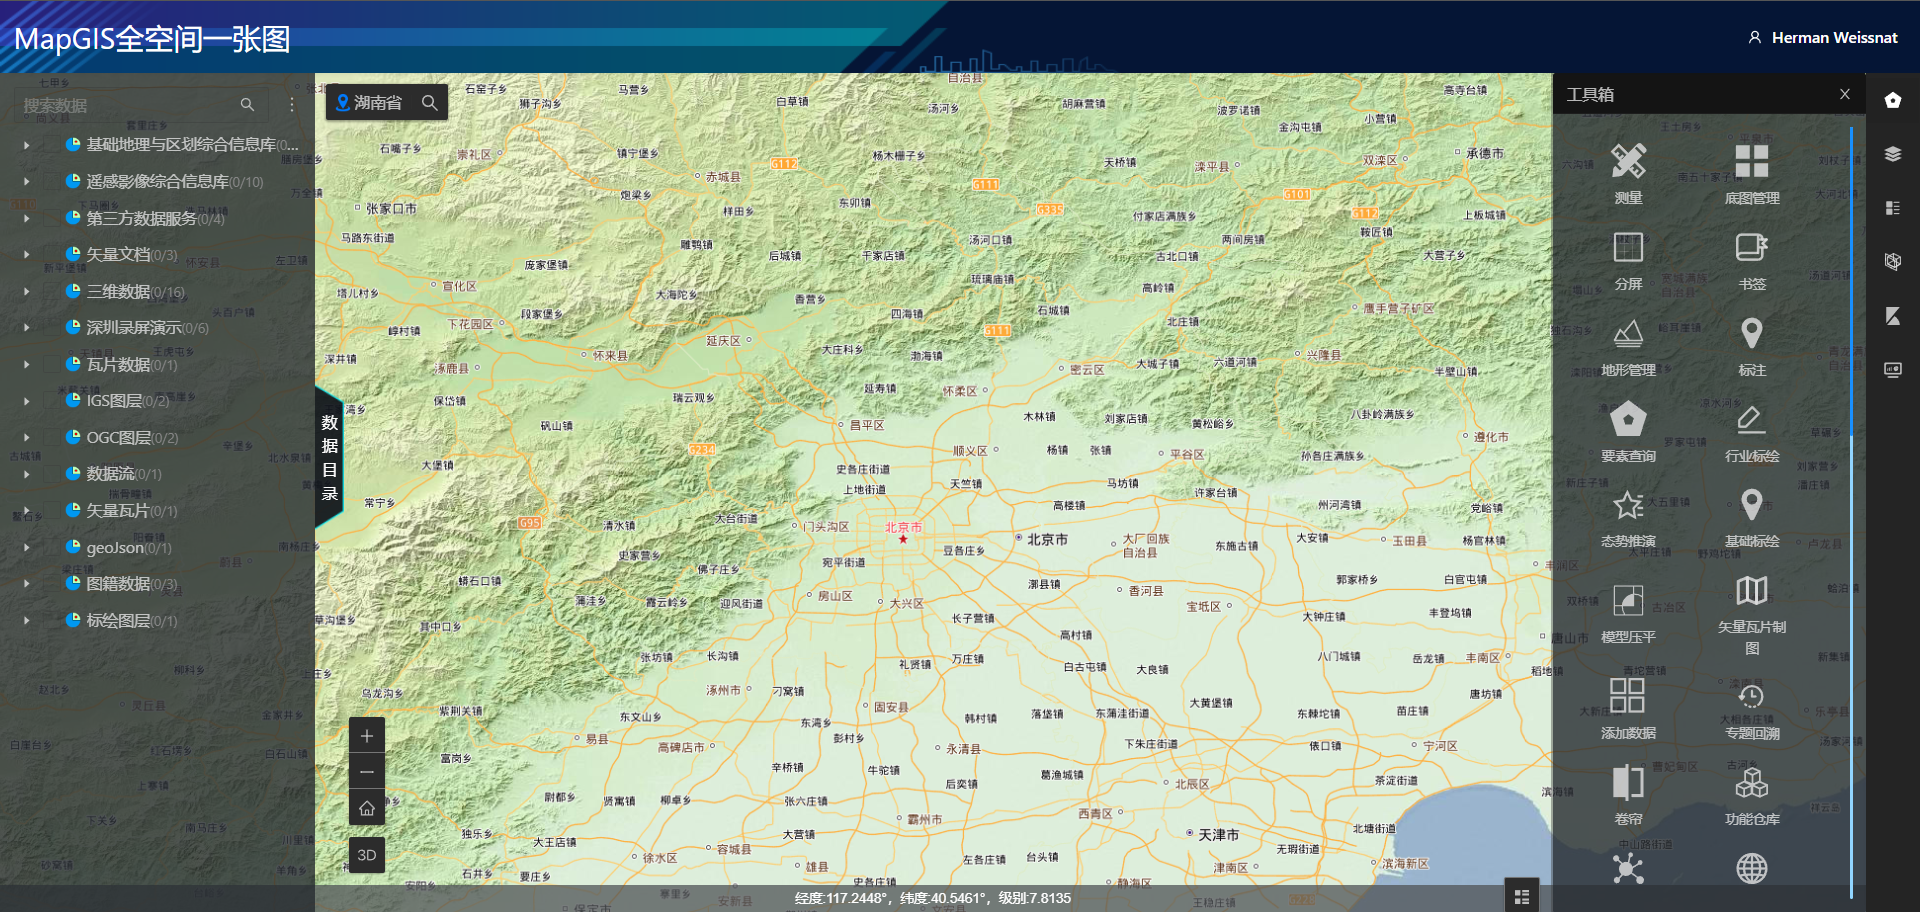
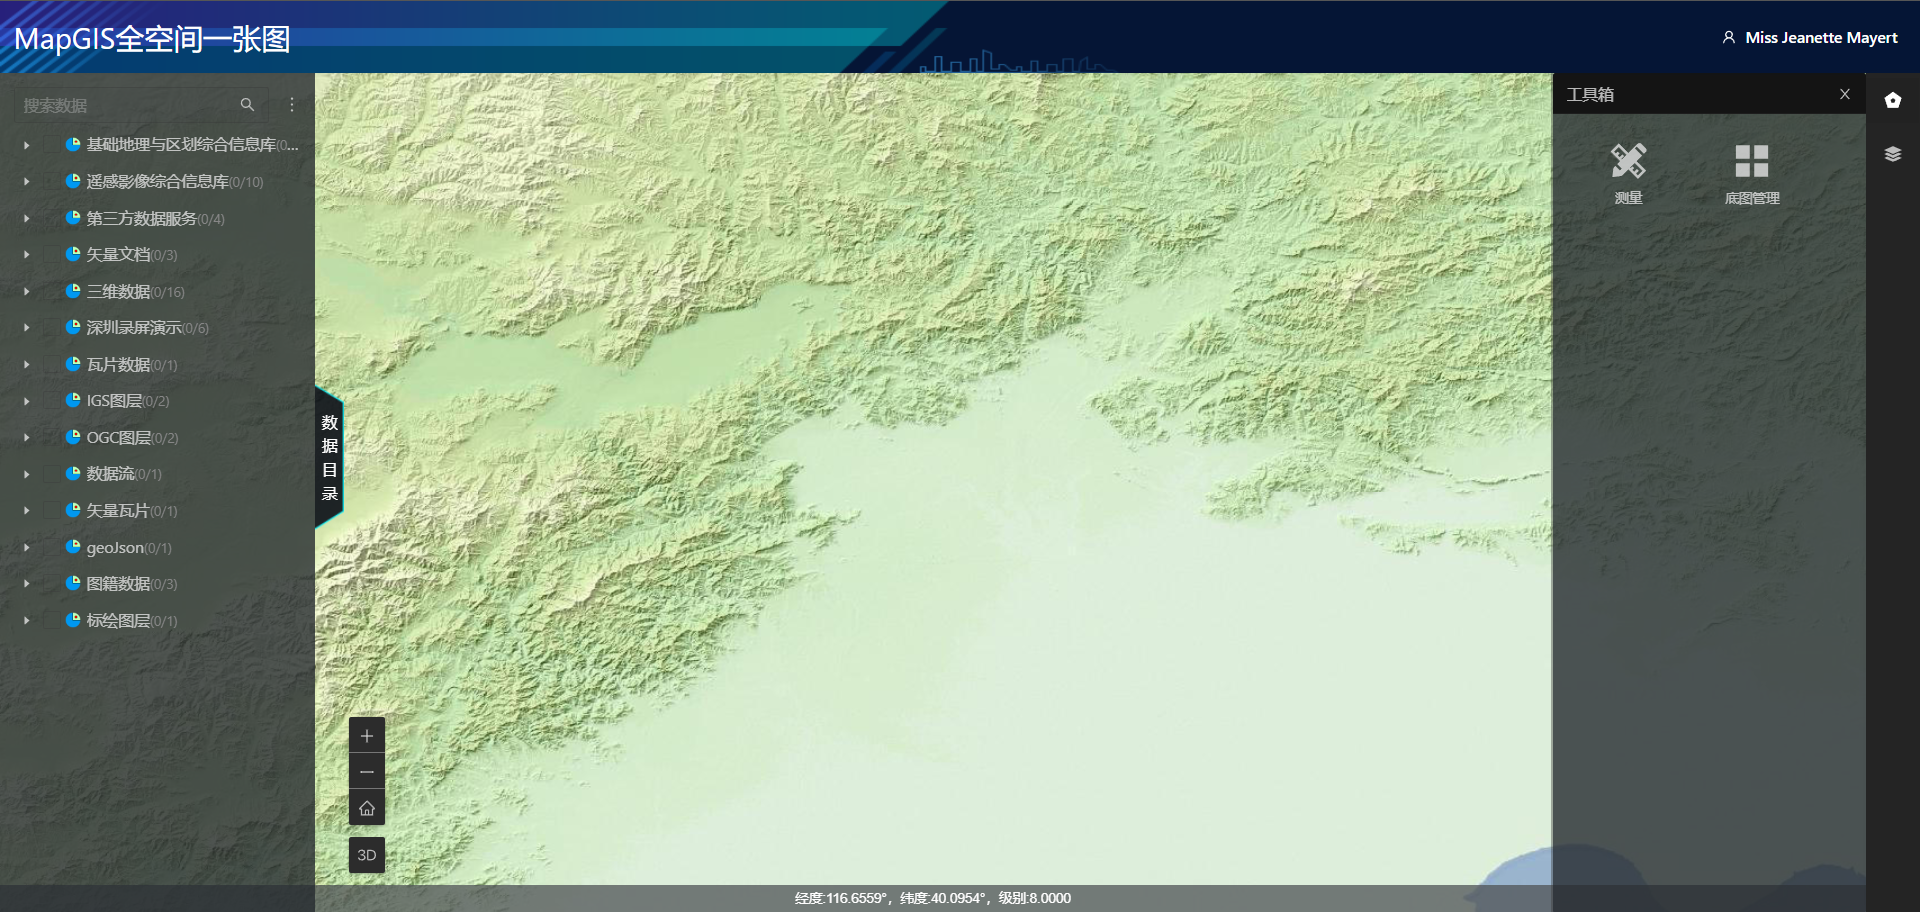
feat：更新说明文档

diff --git a/src/components/SidePanel/SideCard.vue b/src/components/SidePanel/SideCard.vue
@@ -1,5 +1,5 @@
 <template>
-  <mp-pan-spatial-map-side-example-window
+  <mp-pan-spatial-map-example-side-window
     ref="sideWindow"
     :title="widgetInfo.label"
     :icon="widgetInfo.icon"
@@ -18,7 +18,7 @@
         @update-widget-state="$emit('update-widget-state', $event)"
       />
     </template>
-  </mp-pan-spatial-map-side-example-window>
+  </mp-pan-spatial-map-example-side-window>
 </template>
 
 <script>

diff --git a/docs/主题扩展指南.md b/docs/主题扩展指南.md
@@ -658,11 +658,18 @@ widget_2 | folder_1
           {
             "id": "widget_878815b5-3f97-4026-80a9-46e683c053b1",
             "uri": "widgets/measurement"
+          },
+          {
+            "id": "widget_b886364f-684a-4efb-98b7-7b98418f943a",
+            "uri": "widgets/basemap-manager"
           }
         ],
         "widgetStructure": [
           {
             "id": "widget_878815b5-3f97-4026-80a9-46e683c053b1"
+          },
+          {
+            "id": "widget_b886364f-684a-4efb-98b7-7b98418f943a"
           }
         ],
         "panel": {
@@ -780,7 +787,7 @@ widget_2 | folder_1
 
 ```
 {
-  "logo": "images/logo.png",
+  "logo": "<svg data-name=\"图层 1\" xmlns=\"http://www.w3.org/2000/svg\" viewBox=\"0 0 160 160\"><defs><linearGradient id=\"a\" x1=\"86.5\" y1=\"110.29\" x2=\"86.5\" y2=\"142.87\" gradientUnits=\"userSpaceOnUse\"><stop offset=\"0\" stop-color=\"#48acdb\"/><stop offset=\"1\" stop-color=\"#214f97\"/></linearGradient><linearGradient id=\"b\" x1=\"87.69\" y1=\"17.13\" x2=\"87.69\" y2=\"103.12\" gradientUnits=\"userSpaceOnUse\"><stop offset=\"0\" stop-color=\"#46b7ea\"/><stop offset=\"1\" stop-color=\"#2353a3\"/></linearGradient></defs><path d=\"M139.4 114.49c-.37-.54-1-.15-1.53 0-6 1.27-12 2.5-18 3.39A190.29 190.29 0 0 1 74.15 119a167 167 0 0 1-38.41-8.37c-.72-.25-1.53-.64-2.06.15s.19 1.44.57 2c9.77 15.65 23.63 25.4 41.81 28.91a94.82 94.82 0 0 0 11 1.16 67.13 67.13 0 0 0 27.7-6.29c-17.52 1.39-32.82-5.38-32.82-5.38 26.71 4.92 39.78.47 45-2.43a69.29 69.29 0 0 0 11.47-12.16 6.21 6.21 0 0 0 .47-.68c.25-.44.89-.91.52-1.42z\"/><path d=\"M90.48 116a177.08 177.08 0 0 1-19.79-1.1 158.53 158.53 0 0 1-44-11.74c-9.5-4-16-8.32-20.94-13.93C.22 83-1.29 76.31 1.09 68.73c1.72-5.46 4.95-10.55 10.17-16A115.64 115.64 0 0 1 35.4 33.79a54.93 54.93 0 0 0-12.69 14c-3.49 5.73-7.09 12.48-5.67 20s7.29 13.26 12.23 17.36C37 91.6 46 95.1 53.68 97.69c16.59 5.55 34.41 8.5 54.48 9h1c1.73 0 4.11.12 6.91.12 22.57 0 37.46-4.47 43.94-13a21.19 21.19 0 0 1-10.57 11.73c-9.11 4.56-24.15 8.07-41.26 9.61-5.99.54-11.94.85-17.7.85z\"/><path d=\"M150.15 74.63c-2.41-28.45-28.47-54.69-56.91-57.24a63 63 0 0 0-68.19 54.33 6.27 6.27 0 0 0 1.62 5.11 62.86 62.86 0 0 0 20.65 14.48A39.88 39.88 0 0 1 46 82.56h18.88a106.87 106.87 0 0 0 1.22 15 215.35 215.35 0 0 0 23.43 4.08h.24v-.38h16.8q-.18.9-.36 1.76l3.13.11c.13-.61.26-1.23.39-1.86h15q-.44.8-.92 1.59a120.63 120.63 0 0 0 21.25-3.19 4.28 4.28 0 0 0 3.09-3 63.28 63.28 0 0 0 2-22.04zm-85.29 4.81H46a41.73 41.73 0 0 1 3.6-15.58h16.56a107.7 107.7 0 0 0-1.3 15.58zM51.19 60.75a42.21 42.21 0 0 1 22.06-19.06 65.23 65.23 0 0 0-6.57 19.06zm35.46 37.39H69.31A106.88 106.88 0 0 1 68 82.56h18.65zm0-18.7H68a107.68 107.68 0 0 1 1.3-15.58h17.35zm0-18.7H69.79c1.91-9.74 4.95-16.36 7.29-20.28A42.05 42.05 0 0 1 86.65 39zM89.77 39a42.5 42.5 0 0 1 9.61 1.53 63.13 63.13 0 0 1 7.25 20.22H89.77zm17.34 59.14H89.77V82.56h18.65a106.8 106.8 0 0 1-1.31 15.58zm-17.34-18.7V63.86h17.37a107.66 107.66 0 0 1 1.3 15.58zm13.47-37.63a42.2 42.2 0 0 1 21.54 18.93h-15a65.45 65.45 0 0 0-6.55-18.92zm23 56.32h-16a106.8 106.8 0 0 0 1.31-15.58H130a41.84 41.84 0 0 1-3.76 15.59zm-14.69-18.7a107.76 107.76 0 0 0-1.29-15.58h16.08A41.88 41.88 0 0 1 130 79.44z\"/></svg>",
   "title": "MapGIS全空间一张图",
   "subtitle": "",
   "copyright": "2023 武汉中地数码科技有限公司 Version 10.6.4.10",
@@ -883,11 +890,19 @@ widget_2 | folder_1
             "id": "widget_878815b5-3f97-4026-80a9-46e683c053b1",
             "uri": "widgets/measurement",
             "config": "configs/measurement/config.json"
+          },
+          {
+            "id": "widget_b886364f-684a-4efb-98b7-7b98418f943a",
+            "uri": "widgets/basemap-manager",
+            "config": "configs/basemap-manager/config.json"
           }
         ],
         "widgetStructure": [
           {
             "id": "widget_878815b5-3f97-4026-80a9-46e683c053b1"
+          },
+          {
+            "id": "widget_b886364f-684a-4efb-98b7-7b98418f943a"
           }
         ],
         "panel": {
